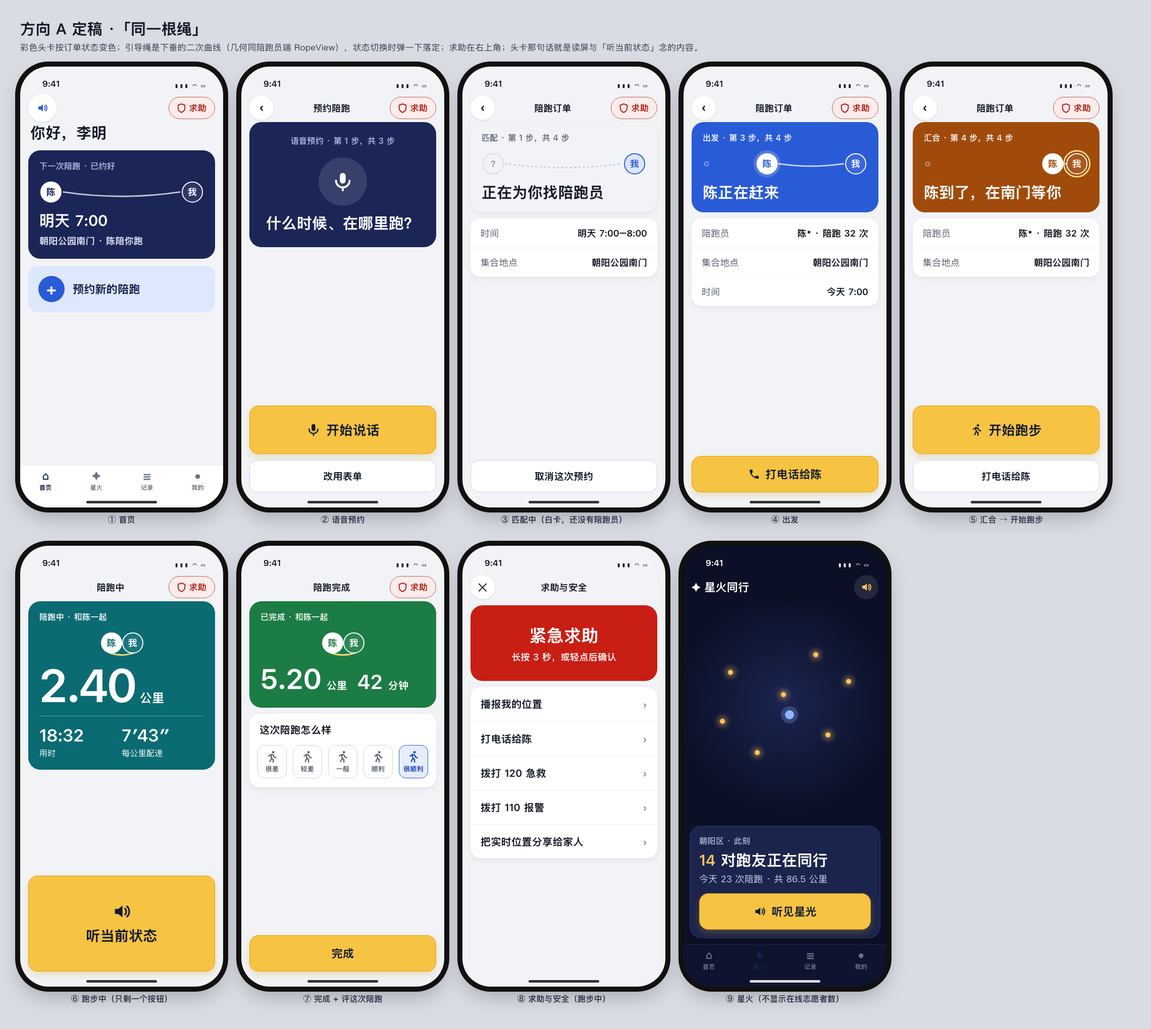
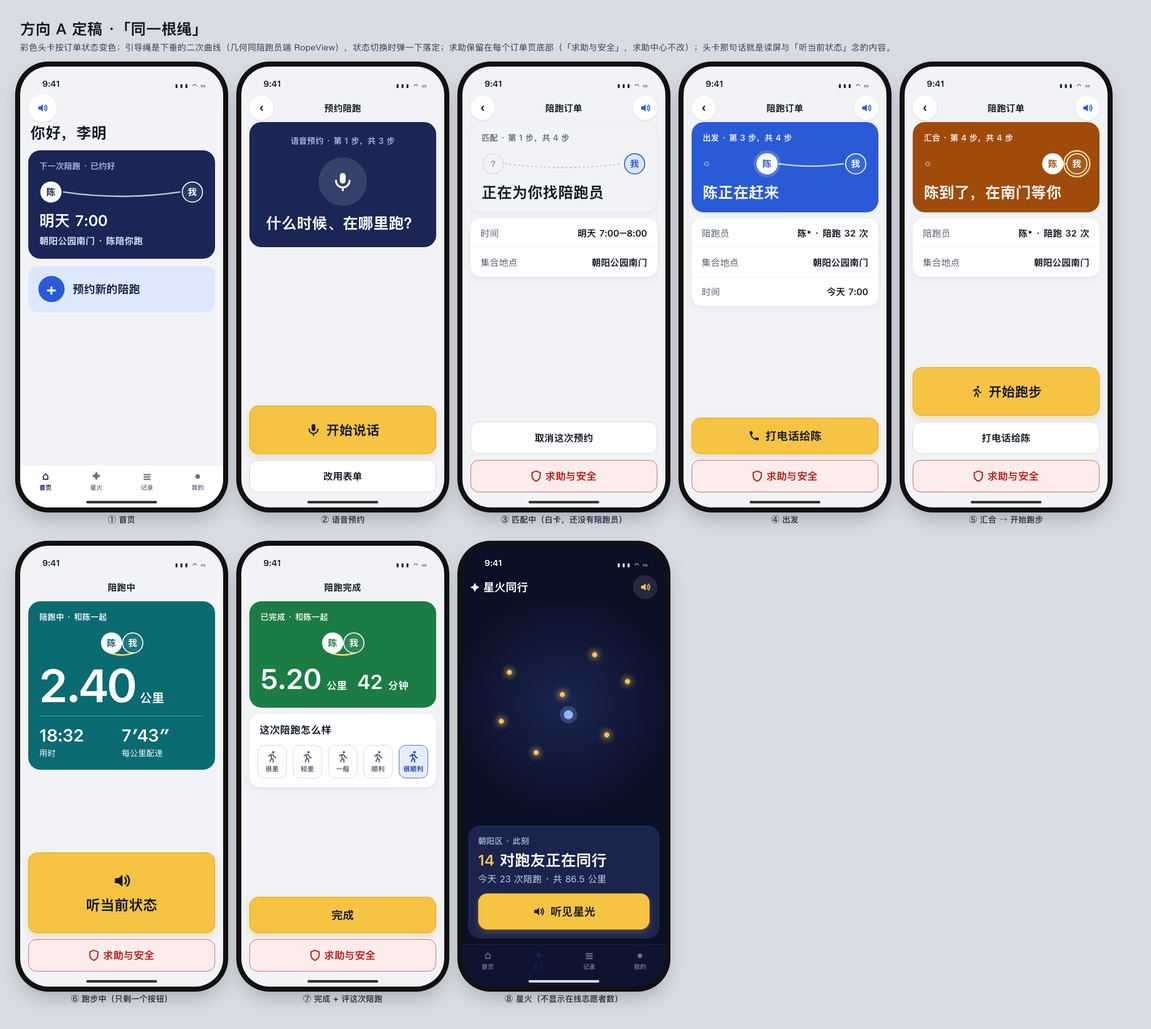
docs: 定稿求助回到订单页底部，求助中心不在范围（负责人 10-07）

diff --git a/docs/ui/mockups/blind-redesign-20261007/final/A-final.html b/docs/ui/mockups/blind-redesign-20261007/final/A-final.html
@@ -21,37 +21,35 @@
 .xcard{margin:0 12px 12px;padding:18px 18px 16px;border-radius:24px;background:rgba(28,38,80,.92);border:1px solid rgba(255,255,255,.09)}
 </style></head><body>
 <h1 class="dir">方向 A 定稿 ·「同一根绳」</h1>
-<p class="dirsub">彩色头卡按订单状态变色；引导绳是下垂的二次曲线（几何同陪跑员端 RopeView），状态切换时弹一下落定；求助在右上角；头卡那句话就是读屏与「听当前状态」念的内容。</p>
-<div class="row" style="flex-wrap:wrap;row-gap:40px"><div><div class="phone"><div class="sb"><span>9:41</span><span class="ic">▮▮▮ ◠ ▭</span></div><div class="nav"><div class="circ" style="width:56px;height:56px;border-radius:28px"><svg width="24" height="24" viewBox="0 0 24 24"><path d="M4 9v6h4l5 4V5L8 9H4z" fill="#2A5BD7"/><path d="M16 8.5a5 5 0 010 7M18.5 6a8.5 8.5 0 010 12" stroke="#2A5BD7" stroke-width="2" fill="none" stroke-linecap="round"/></svg></div><div></div><div class="pill-help"><svg width="17" height="19" viewBox="0 0 20 22"><path d="M10 1l8 3v6c0 5-3.5 9-8 11-4.5-2-8-6-8-11V4l8-3z" fill="none" stroke="#B42318" stroke-width="2.4"/></svg>求助</div></div>
+<p class="dirsub">彩色头卡按订单状态变色；引导绳是下垂的二次曲线（几何同陪跑员端 RopeView），状态切换时弹一下落定；求助保留在每个订单页底部（「求助与安全」，求助中心不改）；头卡那句话就是读屏与「听当前状态」念的内容。</p>
+<div class="row" style="flex-wrap:wrap;row-gap:40px"><div><div class="phone"><div class="sb"><span>9:41</span><span class="ic">▮▮▮ ◠ ▭</span></div><div class="nav"><div class="circ" style="width:56px;height:56px;border-radius:28px"><svg width="24" height="24" viewBox="0 0 24 24"><path d="M4 9v6h4l5 4V5L8 9H4z" fill="#2A5BD7"/><path d="M16 8.5a5 5 0 010 7M18.5 6a8.5 8.5 0 010 12" stroke="#2A5BD7" stroke-width="2" fill="none" stroke-linecap="round"/></svg></div><div></div></div>
 <div class="hello">你好，李明</div>
 <div class="hero" style="background:#1B2657"><div class="eyebrow"><span style="color:#B8C3E6">下一次陪跑 · 已约好</span></div><svg viewBox="0 0 342 56" width="100%" style="display:block;margin:14px 0 12px;overflow:visible"><path d="M50 28 Q171.0 46 292 28" stroke="rgba(255,255,255,.75)" stroke-width="3" fill="none" stroke-linecap="round" /><circle cx="24" cy="28" r="22" fill="#fff"/><text x="24" y="35" text-anchor="middle" font-size="19" font-weight="800" fill="#1B2657">陈</text><circle cx="318" cy="28" r="21" fill="rgba(255,255,255,.08)" stroke="#fff" stroke-width="2"/><text x="318" y="35" text-anchor="middle" font-size="19" font-weight="800" fill="#fff">我</text></svg><div class="say">明天 7:00<br><span class="sub">朝阳公园南门 · 陈陪你跑</span></div></div>
 <div class="book"><div class="plus">+</div>预约新的陪跑</div>
-<div style="flex:1"></div><div class="tabs"><div class="on"><i>⌂</i>首页</div><div class=""><i>✦</i>星火</div><div class=""><i>☰</i>记录</div><div class=""><i>●</i>我的</div></div><div class="hi"></div></div><div class="cap">① 首页</div></div><div><div class="phone"><div class="sb"><span>9:41</span><span class="ic">▮▮▮ ◠ ▭</span></div><div class="nav"><div class="circ" style="font-size:30px;font-weight:600;padding-bottom:4px">‹</div><div class="t">预约陪跑</div><div class="pill-help"><svg width="17" height="19" viewBox="0 0 20 22"><path d="M10 1l8 3v6c0 5-3.5 9-8 11-4.5-2-8-6-8-11V4l8-3z" fill="none" stroke="#B42318" stroke-width="2.4"/></svg>求助</div></div>
+<div style="flex:1"></div><div class="tabs"><div class="on"><i>⌂</i>首页</div><div class=""><i>✦</i>星火</div><div class=""><i>☰</i>记录</div><div class=""><i>●</i>我的</div></div><div class="hi"></div></div><div class="cap">① 首页</div></div><div><div class="phone"><div class="sb"><span>9:41</span><span class="ic">▮▮▮ ◠ ▭</span></div><div class="nav"><div class="circ" style="font-size:30px;font-weight:600;padding-bottom:4px">‹</div><div class="t">预约陪跑</div><div style="width:48px"></div></div>
 <div class="hero" style="background:#1B2657;text-align:center;padding:26px 22px 30px"><div class="eyebrow" style="color:#B8C3E6">语音预约 · 第 1 步，共 3 步</div>
 <div style="width:96px;height:96px;border-radius:48px;background:rgba(255,255,255,.12);margin:22px auto 16px;display:flex;align-items:center;justify-content:center;color:#fff"><svg width="46" height="46" viewBox="0 0 24 24"><rect x="9" y="3" width="6" height="11" rx="3" fill="currentColor"/><path d="M5 11a7 7 0 0014 0M12 18v3" stroke="currentColor" stroke-width="2" fill="none" stroke-linecap="round"/></svg></div>
 <div class="say" style="font-size:30px">什么时候、在哪里跑？</div></div>
 
-<div class="bottom"><div class="cta" style="height:96px;font-size:26px"><svg width="30" height="30" viewBox="0 0 24 24"><rect x="9" y="3" width="6" height="11" rx="3" fill="currentColor"/><path d="M5 11a7 7 0 0014 0M12 18v3" stroke="currentColor" stroke-width="2" fill="none" stroke-linecap="round"/></svg>开始说话</div><div class="ghost">改用表单</div></div><div class="hi"></div></div><div class="cap">② 语音预约</div></div><div><div class="phone"><div class="sb"><span>9:41</span><span class="ic">▮▮▮ ◠ ▭</span></div><div class="nav"><div class="circ" style="font-size:30px;font-weight:600;padding-bottom:4px">‹</div><div class="t">陪跑订单</div><div class="pill-help"><svg width="17" height="19" viewBox="0 0 20 22"><path d="M10 1l8 3v6c0 5-3.5 9-8 11-4.5-2-8-6-8-11V4l8-3z" fill="none" stroke="#B42318" stroke-width="2.4"/></svg>求助</div></div>
+<div class="bottom"><div class="cta" style="height:96px;font-size:26px"><svg width="30" height="30" viewBox="0 0 24 24"><rect x="9" y="3" width="6" height="11" rx="3" fill="currentColor"/><path d="M5 11a7 7 0 0014 0M12 18v3" stroke="currentColor" stroke-width="2" fill="none" stroke-linecap="round"/></svg>开始说话</div><div class="ghost">改用表单</div></div><div class="hi"></div></div><div class="cap">② 语音预约</div></div><div><div class="phone"><div class="sb"><span>9:41</span><span class="ic">▮▮▮ ◠ ▭</span></div><div class="nav"><div class="circ" style="font-size:30px;font-weight:600;padding-bottom:4px">‹</div><div class="t">陪跑订单</div><div class="circ"><svg width="24" height="24" viewBox="0 0 24 24"><path d="M4 9v6h4l5 4V5L8 9H4z" fill="#2A5BD7"/><path d="M16 8.5a5 5 0 010 7M18.5 6a8.5 8.5 0 010 12" stroke="#2A5BD7" stroke-width="2" fill="none" stroke-linecap="round"/></svg></div></div>
 <div class="hero" style="box-shadow:0 1px 2px rgba(21,26,38,.06),0 4px 14px rgba(21,26,38,.05)" style="background:#FFFFFF"><div class="eyebrow"><span style="color:#5B6272">匹配 · 第 1 步，共 4 步</span></div><svg viewBox="0 0 342 56" width="100%" style="display:block;margin:14px 0 12px;overflow:visible"><path d="M50 28 Q171.0 44 292 28" stroke="#C3C9D5" stroke-width="2.5" fill="none" stroke-linecap="round" stroke-dasharray="2 7"/><circle cx="24" cy="28" r="21" fill="none" stroke="#C3C9D5" stroke-width="2" stroke-dasharray="3 3"/><text x="24" y="35" text-anchor="middle" font-size="18" font-weight="800" fill="#8A91A2">?</text><circle cx="318" cy="28" r="21" fill="#DCE6FB" stroke="#2A5BD7" stroke-width="2"/><text x="318" y="35" text-anchor="middle" font-size="19" font-weight="800" fill="#2A5BD7">我</text></svg><div class="say"><span style="color:#151A26">正在为你找陪跑员</span></div></div>
 <div class="card"><div class="kv"><span>时间</span><span>明天 7:00–8:00</span></div><div class="kv"><span>集合地点</span><span>朝阳公园南门</span></div></div>
-<div class="bottom"><div class="ghost">取消这次预约</div></div><div class="hi"></div></div><div class="cap">③ 匹配中（白卡，还没有陪跑员）</div></div><div><div class="phone"><div class="sb"><span>9:41</span><span class="ic">▮▮▮ ◠ ▭</span></div><div class="nav"><div class="circ" style="font-size:30px;font-weight:600;padding-bottom:4px">‹</div><div class="t">陪跑订单</div><div class="pill-help"><svg width="17" height="19" viewBox="0 0 20 22"><path d="M10 1l8 3v6c0 5-3.5 9-8 11-4.5-2-8-6-8-11V4l8-3z" fill="none" stroke="#B42318" stroke-width="2.4"/></svg>求助</div></div>
+<div class="bottom"><div class="ghost">取消这次预约</div><div class="help"><svg width="20" height="22" viewBox="0 0 20 22"><path d="M10 1l8 3v6c0 5-3.5 9-8 11-4.5-2-8-6-8-11V4l8-3z" fill="none" stroke="#B42318" stroke-width="2.4"/></svg>求助与安全</div></div><div class="hi"></div></div><div class="cap">③ 匹配中（白卡，还没有陪跑员）</div></div><div><div class="phone"><div class="sb"><span>9:41</span><span class="ic">▮▮▮ ◠ ▭</span></div><div class="nav"><div class="circ" style="font-size:30px;font-weight:600;padding-bottom:4px">‹</div><div class="t">陪跑订单</div><div class="circ"><svg width="24" height="24" viewBox="0 0 24 24"><path d="M4 9v6h4l5 4V5L8 9H4z" fill="#2A5BD7"/><path d="M16 8.5a5 5 0 010 7M18.5 6a8.5 8.5 0 010 12" stroke="#2A5BD7" stroke-width="2" fill="none" stroke-linecap="round"/></svg></div></div>
 <div class="hero" style="background:#2A5BD7"><div class="eyebrow">出发 · 第 3 步，共 4 步</div><svg viewBox="0 0 342 56" width="100%" style="display:block;margin:14px 0 12px;overflow:visible"><circle cx="8" cy="28" r="4" fill="none" stroke="rgba(255,255,255,.5)" stroke-width="2"/><path d="M157.8 28 Q224.9 37.981818181818184 292 28" stroke="rgba(255,255,255,.75)" stroke-width="3" fill="none" stroke-linecap="round" /><circle cx="133.8" cy="28" r="28" fill="rgba(255,255,255,.18)"/><circle cx="133.8" cy="28" r="22" fill="#fff"/><text x="133.8" y="35" text-anchor="middle" font-size="19" font-weight="800" fill="#2A5BD7">陈</text><circle cx="318" cy="28" r="21" fill="rgba(255,255,255,.08)" stroke="#fff" stroke-width="2"/><text x="318" y="35" text-anchor="middle" font-size="19" font-weight="800" fill="#fff">我</text></svg><div class="say">陈正在赶来</div></div>
 <div class="card"><div class="kv"><span>陪跑员</span><span>陈* · 陪跑 32 次</span></div><div class="kv"><span>集合地点</span><span>朝阳公园南门</span></div><div class="kv"><span>时间</span><span>今天 7:00</span></div></div>
-<div class="bottom"><div class="cta" style="height:72px;"><svg width="24" height="24" viewBox="0 0 24 24"><path d="M6.6 10.8a15 15 0 006.6 6.6l2.2-2.2a1 1 0 011-.25 11.4 11.4 0 003.6.6 1 1 0 011 1V20a1 1 0 01-1 1A17 17 0 013 4a1 1 0 011-1h3.5a1 1 0 011 1c0 1.25.2 2.45.6 3.6a1 1 0 01-.25 1z" fill="currentColor"/></svg>打电话给陈</div></div><div class="hi"></div></div><div class="cap">④ 出发</div></div><div><div class="phone"><div class="sb"><span>9:41</span><span class="ic">▮▮▮ ◠ ▭</span></div><div class="nav"><div class="circ" style="font-size:30px;font-weight:600;padding-bottom:4px">‹</div><div class="t">陪跑订单</div><div class="pill-help"><svg width="17" height="19" viewBox="0 0 20 22"><path d="M10 1l8 3v6c0 5-3.5 9-8 11-4.5-2-8-6-8-11V4l8-3z" fill="none" stroke="#B42318" stroke-width="2.4"/></svg>求助</div></div>
+<div class="bottom"><div class="cta" style="height:72px;"><svg width="24" height="24" viewBox="0 0 24 24"><path d="M6.6 10.8a15 15 0 006.6 6.6l2.2-2.2a1 1 0 011-.25 11.4 11.4 0 003.6.6 1 1 0 011 1V20a1 1 0 01-1 1A17 17 0 013 4a1 1 0 011-1h3.5a1 1 0 011 1c0 1.25.2 2.45.6 3.6a1 1 0 01-.25 1z" fill="currentColor"/></svg>打电话给陈</div><div class="help"><svg width="20" height="22" viewBox="0 0 20 22"><path d="M10 1l8 3v6c0 5-3.5 9-8 11-4.5-2-8-6-8-11V4l8-3z" fill="none" stroke="#B42318" stroke-width="2.4"/></svg>求助与安全</div></div><div class="hi"></div></div><div class="cap">④ 出发</div></div><div><div class="phone"><div class="sb"><span>9:41</span><span class="ic">▮▮▮ ◠ ▭</span></div><div class="nav"><div class="circ" style="font-size:30px;font-weight:600;padding-bottom:4px">‹</div><div class="t">陪跑订单</div><div class="circ"><svg width="24" height="24" viewBox="0 0 24 24"><path d="M4 9v6h4l5 4V5L8 9H4z" fill="#2A5BD7"/><path d="M16 8.5a5 5 0 010 7M18.5 6a8.5 8.5 0 010 12" stroke="#2A5BD7" stroke-width="2" fill="none" stroke-linecap="round"/></svg></div></div>
 <div class="hero" style="background:#A04B0C"><div class="eyebrow">汇合 · 第 4 步，共 4 步</div><svg viewBox="0 0 342 56" width="100%" style="display:block;margin:14px 0 12px;overflow:visible"><circle cx="8" cy="28" r="4" fill="none" stroke="rgba(255,255,255,.5)" stroke-width="2"/><path d="M290 28 Q293.0 28 296 28" stroke="rgba(255,255,255,.75)" stroke-width="3" fill="none" stroke-linecap="round" /><circle cx="268" cy="28" r="22" fill="#fff"/><text x="268" y="35" text-anchor="middle" font-size="19" font-weight="800" fill="#A04B0C">陈</text><circle cx="318" cy="28" r="27" fill="none" stroke="#FFD978" stroke-width="3"/><circle cx="318" cy="28" r="21" fill="rgba(255,255,255,.08)" stroke="#fff" stroke-width="2"/><text x="318" y="35" text-anchor="middle" font-size="19" font-weight="800" fill="#fff">我</text></svg><div class="say">陈到了，在南门等你</div></div>
 <div class="card"><div class="kv"><span>陪跑员</span><span>陈* · 陪跑 32 次</span></div><div class="kv"><span>集合地点</span><span>朝阳公园南门</span></div></div>
-<div class="bottom"><div class="cta" style="height:96px;font-size:26px"><svg width="26" height="26" viewBox="0 0 24 24"><circle cx="14" cy="4" r="2.2" fill="currentColor"/><path d="M8 21l3-6 3 2v5M6 11l4-3 4 1 2 4 3 1M11 15l-1-5" stroke="currentColor" stroke-width="2.2" fill="none" stroke-linecap="round" stroke-linejoin="round"/></svg>开始跑步</div><div class="ghost">打电话给陈</div></div><div class="hi"></div></div><div class="cap">⑤ 汇合 → 开始跑步</div></div></div><div style="height:40px"></div>
-<div class="row" style="flex-wrap:wrap"><div><div class="phone"><div class="sb"><span>9:41</span><span class="ic">▮▮▮ ◠ ▭</span></div><div class="nav"><div style="width:48px"></div><div class="t">陪跑中</div><div class="pill-help"><svg width="17" height="19" viewBox="0 0 20 22"><path d="M10 1l8 3v6c0 5-3.5 9-8 11-4.5-2-8-6-8-11V4l8-3z" fill="none" stroke="#B42318" stroke-width="2.4"/></svg>求助</div></div>
+<div class="bottom"><div class="cta" style="height:96px;font-size:26px"><svg width="26" height="26" viewBox="0 0 24 24"><circle cx="14" cy="4" r="2.2" fill="currentColor"/><path d="M8 21l3-6 3 2v5M6 11l4-3 4 1 2 4 3 1M11 15l-1-5" stroke="currentColor" stroke-width="2.2" fill="none" stroke-linecap="round" stroke-linejoin="round"/></svg>开始跑步</div><div class="ghost">打电话给陈</div><div class="help"><svg width="20" height="22" viewBox="0 0 20 22"><path d="M10 1l8 3v6c0 5-3.5 9-8 11-4.5-2-8-6-8-11V4l8-3z" fill="none" stroke="#B42318" stroke-width="2.4"/></svg>求助与安全</div></div><div class="hi"></div></div><div class="cap">⑤ 汇合 → 开始跑步</div></div></div><div style="height:40px"></div>
+<div class="row" style="flex-wrap:wrap"><div><div class="phone"><div class="sb"><span>9:41</span><span class="ic">▮▮▮ ◠ ▭</span></div><div class="nav"><div style="width:48px"></div><div class="t">陪跑中</div><div style="width:48px"></div></div>
 <div class="hero" style="background:#0A6B72"><div class="eyebrow">陪跑中 · 和陈一起</div><svg viewBox="0 0 342 56" width="100%" style="display:block;margin:14px 0 12px;overflow:visible"><path d="M146 49 Q171.0 57 196 49" stroke="#FFD978" stroke-width="3" fill="none" stroke-linecap="round" /><circle cx="150" cy="28" r="22" fill="#fff"/><text x="150" y="35" text-anchor="middle" font-size="19" font-weight="800" fill="#0A6B72">陈</text><circle cx="194" cy="28" r="21" fill="rgba(255,255,255,.08)" stroke="#fff" stroke-width="2"/><text x="194" y="35" text-anchor="middle" font-size="19" font-weight="800" fill="#fff">我</text></svg>
 <div style="display:flex;align-items:baseline;gap:8px"><span style="font-size:92px;font-weight:800;letter-spacing:-2px;line-height:1">2.40</span><span style="font-size:24px;font-weight:800">公里</span></div>
 <div class="metric"><div><b>18:32</b><span>用时</span></div><div><b>7′43″</b><span>每公里配速</span></div></div></div>
-<div class="bottom"><div class="cta" style="height:190px;font-size:28px;flex-direction:column;gap:8px"><svg width="40" height="40" viewBox="0 0 24 24"><path d="M4 9v6h4l5 4V5L8 9H4z" fill="#111A2E"/><path d="M16 8.5a5 5 0 010 7M18.5 6a8.5 8.5 0 010 12" stroke="#111A2E" stroke-width="2" fill="none" stroke-linecap="round"/></svg>听当前状态</div></div><div class="hi"></div></div><div class="cap">⑥ 跑步中（只剩一个按钮）</div></div><div><div class="phone"><div class="sb"><span>9:41</span><span class="ic">▮▮▮ ◠ ▭</span></div><div class="nav"><div style="width:48px"></div><div class="t">陪跑完成</div><div class="pill-help"><svg width="17" height="19" viewBox="0 0 20 22"><path d="M10 1l8 3v6c0 5-3.5 9-8 11-4.5-2-8-6-8-11V4l8-3z" fill="none" stroke="#B42318" stroke-width="2.4"/></svg>求助</div></div>
+<div class="bottom"><div class="cta" style="height:160px;font-size:28px;flex-direction:column;gap:8px"><svg width="40" height="40" viewBox="0 0 24 24"><path d="M4 9v6h4l5 4V5L8 9H4z" fill="#111A2E"/><path d="M16 8.5a5 5 0 010 7M18.5 6a8.5 8.5 0 010 12" stroke="#111A2E" stroke-width="2" fill="none" stroke-linecap="round"/></svg>听当前状态</div><div class="help"><svg width="20" height="22" viewBox="0 0 20 22"><path d="M10 1l8 3v6c0 5-3.5 9-8 11-4.5-2-8-6-8-11V4l8-3z" fill="none" stroke="#B42318" stroke-width="2.4"/></svg>求助与安全</div></div><div class="hi"></div></div><div class="cap">⑥ 跑步中（只剩一个按钮）</div></div><div><div class="phone"><div class="sb"><span>9:41</span><span class="ic">▮▮▮ ◠ ▭</span></div><div class="nav"><div style="width:48px"></div><div class="t">陪跑完成</div><div style="width:48px"></div></div>
 <div class="hero" style="background:#1C7C45"><div class="eyebrow">已完成 · 和陈一起</div><svg viewBox="0 0 342 56" width="100%" style="display:block;margin:14px 0 12px;overflow:visible"><path d="M146 49 Q171.0 57 196 49" stroke="#FFD978" stroke-width="3" fill="none" stroke-linecap="round" /><circle cx="150" cy="28" r="22" fill="#fff"/><text x="150" y="35" text-anchor="middle" font-size="19" font-weight="800" fill="#1C7C45">陈</text><circle cx="194" cy="28" r="21" fill="rgba(255,255,255,.08)" stroke="#fff" stroke-width="2"/><text x="194" y="35" text-anchor="middle" font-size="19" font-weight="800" fill="#fff">我</text></svg><div class="say"><span style="font-size:56px">5.20</span> <span class="sub2">公里</span>&nbsp;&nbsp;<span style="font-size:40px">42</span> <span class="sub2">分钟</span></div></div>
 <div class="card"><div style="font-size:20px;font-weight:800;padding:18px 20px 12px">这次陪跑怎么样</div><div class="rate"><div class=""><svg width="26" height="26" viewBox="0 0 24 24"><circle cx="14" cy="4" r="2.2" fill="currentColor"/><path d="M8 21l3-6 3 2v5M6 11l4-3 4 1 2 4 3 1M11 15l-1-5" stroke="currentColor" stroke-width="2.2" fill="none" stroke-linecap="round" stroke-linejoin="round"/></svg><span>很差</span></div><div class=""><svg width="26" height="26" viewBox="0 0 24 24"><circle cx="14" cy="4" r="2.2" fill="currentColor"/><path d="M8 21l3-6 3 2v5M6 11l4-3 4 1 2 4 3 1M11 15l-1-5" stroke="currentColor" stroke-width="2.2" fill="none" stroke-linecap="round" stroke-linejoin="round"/></svg><span>较差</span></div><div class=""><svg width="26" height="26" viewBox="0 0 24 24"><circle cx="14" cy="4" r="2.2" fill="currentColor"/><path d="M8 21l3-6 3 2v5M6 11l4-3 4 1 2 4 3 1M11 15l-1-5" stroke="currentColor" stroke-width="2.2" fill="none" stroke-linecap="round" stroke-linejoin="round"/></svg><span>一般</span></div><div class=""><svg width="26" height="26" viewBox="0 0 24 24"><circle cx="14" cy="4" r="2.2" fill="currentColor"/><path d="M8 21l3-6 3 2v5M6 11l4-3 4 1 2 4 3 1M11 15l-1-5" stroke="currentColor" stroke-width="2.2" fill="none" stroke-linecap="round" stroke-linejoin="round"/></svg><span>顺利</span></div><div class="sel"><svg width="26" height="26" viewBox="0 0 24 24"><circle cx="14" cy="4" r="2.2" fill="currentColor"/><path d="M8 21l3-6 3 2v5M6 11l4-3 4 1 2 4 3 1M11 15l-1-5" stroke="currentColor" stroke-width="2.2" fill="none" stroke-linecap="round" stroke-linejoin="round"/></svg><span>很顺利</span></div></div></div>
-<div class="bottom"><div class="cta" style="height:72px;">完成</div></div><div class="hi"></div></div><div class="cap">⑦ 完成 + 评这次陪跑</div></div><div><div class="phone"><div class="sb"><span>9:41</span><span class="ic">▮▮▮ ◠ ▭</span></div><div class="nav"><div class="circ" style="font-size:24px">✕</div><div class="t">求助与安全</div><div style="width:48px"></div></div>
-<div class="sos">紧急求助<div class="sos2">长按 3 秒，或轻点后确认</div></div>
-<div class="card"><div class="hrow">播报我的位置<span>›</span></div><div class="hrow">打电话给陈<span>›</span></div><div class="hrow">拨打 120 急救<span>›</span></div><div class="hrow">拨打 110 报警<span>›</span></div><div class="hrow">把实时位置分享给家人<span>›</span></div></div><div class="hi"></div></div><div class="cap">⑧ 求助与安全（跑步中）</div></div><div><div class="phone night"><div class="sb"><span>9:41</span><span class="ic">▮▮▮ ◠ ▭</span></div><div class="nav"><div class="t" style="color:#fff;font-size:22px">✦ 星火同行</div><div></div><div class="circ" style="background:rgba(255,255,255,.1);color:#fff"><svg width="24" height="24" viewBox="0 0 24 24"><path d="M4 9v6h4l5 4V5L8 9H4z" fill="#FFC45C"/><path d="M16 8.5a5 5 0 010 7M18.5 6a8.5 8.5 0 010 12" stroke="#FFC45C" stroke-width="2" fill="none" stroke-linecap="round"/></svg></div></div>
+<div class="bottom"><div class="cta" style="height:72px;">完成</div><div class="help"><svg width="20" height="22" viewBox="0 0 20 22"><path d="M10 1l8 3v6c0 5-3.5 9-8 11-4.5-2-8-6-8-11V4l8-3z" fill="none" stroke="#B42318" stroke-width="2.4"/></svg>求助与安全</div></div><div class="hi"></div></div><div class="cap">⑦ 完成 + 评这次陪跑</div></div><div><div class="phone night"><div class="sb"><span>9:41</span><span class="ic">▮▮▮ ◠ ▭</span></div><div class="nav"><div class="t" style="color:#fff;font-size:22px">✦ 星火同行</div><div></div><div class="circ" style="background:rgba(255,255,255,.1);color:#fff"><svg width="24" height="24" viewBox="0 0 24 24"><path d="M4 9v6h4l5 4V5L8 9H4z" fill="#FFC45C"/><path d="M16 8.5a5 5 0 010 7M18.5 6a8.5 8.5 0 010 12" stroke="#FFC45C" stroke-width="2" fill="none" stroke-linecap="round"/></svg></div></div>
 <div class="map"><div class="me"></div><div class="star" style="left:22%;top:30%"></div><div class="star" style="left:64%;top:22%"></div><div class="star" style="left:70%;top:58%"></div><div class="star" style="left:35%;top:66%"></div><div class="star" style="left:48%;top:40%"></div><div class="star" style="left:80%;top:34%"></div><div class="star" style="left:18%;top:52%"></div></div>
 <div class="xcard"><div style="font-size:16px;font-weight:700;color:#9BA7C9">朝阳区 · 此刻</div><div style="font-size:30px;font-weight:800;color:#fff;margin:6px 0 4px"><span style="color:#FFC45C">14</span> 对跑友正在同行</div><div style="font-size:18px;color:#C9D2EE">今天 23 次陪跑 · 共 86.5 公里</div>
 <div class="cta" style="margin-top:16px"><svg width="26" height="26" viewBox="0 0 24 24"><path d="M4 9v6h4l5 4V5L8 9H4z" fill="#111A2E"/><path d="M16 8.5a5 5 0 010 7M18.5 6a8.5 8.5 0 010 12" stroke="#111A2E" stroke-width="2" fill="none" stroke-linecap="round"/></svg>听见星光</div></div>
-<div class="tabs" style="background:#0E1430;border-top-color:#1E2647"><div class=""><i>⌂</i>首页</div><div class="on"><i>✦</i>星火</div><div class=""><i>☰</i>记录</div><div class=""><i>●</i>我的</div></div><div class="hi light"></div></div><div class="cap">⑨ 星火（不显示在线志愿者数）</div></div></div></body></html>
+<div class="tabs" style="background:#0E1430;border-top-color:#1E2647"><div class=""><i>⌂</i>首页</div><div class="on"><i>✦</i>星火</div><div class=""><i>☰</i>记录</div><div class=""><i>●</i>我的</div></div><div class="hi light"></div></div><div class="cap">⑧ 星火（不显示在线志愿者数）</div></div></div></body></html>

diff --git a/docs/ui/mockups/INDEX.md b/docs/ui/mockups/INDEX.md
@@ -30,7 +30,7 @@ Claude Design 官方自认「没有版本历史」（[support.claude.com 原文]
 | 锁屏实时活动 | `running-state/screens/D-锁屏实时活动.png`；`volunteer-order-page-v2/04-live-activity.md` | Current | v2 的出发/汇合卡在 v1 之外新增 | `DECISIONS-v2.md` V3 | `RunLiveActivityController.swift` `blindRunWidget/RunLiveActivityWidget.swift` `blindRunWidget/Shared/RunLiveActivityShared.swift` | 已落地：#146（跑者播报按钮 + 陪跑员只读卡）。**未落地**：出发/汇合卡（FE-2，PR #231 未合）；照包排版 268/242pt 超锁屏卡 160pt 上限（#231 单测 `sizeThatFits` 量得）；推送 token 拿不到（免费团队，issue #201），只能本地更新 |
 | 跑后运动记录（两端） | `run-record/` | Current | — | **`DECISIONS.md` ＞ `HANDOFF.md`**。有意偏离 HANDOFF 的几处：坐标沿用 GCJ-02、高德不是 MapKit、服务时长从开始服务算、不显示「待确认」、两台手机各自计步 | `RunRecordHistoryView.swift` `RunRecordPresentation.swift` `RunRecordAudio.swift` `RunRecordService.swift` `VolunteerRunRecordView.swift` `RunnerRunRecordView.swift` | 分 8 阶段：阶段 2–6 已合（#189 #191 #194 #197 #203）；阶段 7 草稿 #249。各阶段真机截图（27MB）**未入库**，见文末 |
 | 志愿者「我」首屏 | `volunteer-profile-first-screen-20260914/`（原有） | Current | — | 该目录 `README.md`（含每个字段的真实来源表） | `VolunteerProfileFirstScreen.swift` `VolunteerProfileFirstScreenView.swift` | 已落地：#136。**偏差**：主指标 2026-10-03 改为陪伴时长（试用反馈，替代 #269 的累计公里；不足 1 小时回落为次数、次数退到下一行），累计公里移到三列统计第一格，0 公里 / 0 位搭档显示 `--`；包内 README/IMPLEMENTATION-PROMPT 里「累计里程后端刻意没有」已作废（后端 #348 已补）。未逐屏对照 |
-| 盲人端重设计 7 屏（首页 / 预约 / 订单四步 / 跑步中 / 完成 / 求助中心 / 星火） | `blind-redesign-20261007/directions/`（A 同一根绳 / B 整块面 / C 一句话，各 4 屏 HTML + PNG） | 待确认 | 选定后将取代上面「盲人端 首页 + 单页订单流程」与「盲人端 跑步中」两行的相应屏 | 待项目负责人选方向。**与既有决定的冲突**：A、B 把求助放回首页（推翻 09-16）；A 头卡用彩色状态底、C 求助挪右上角（推翻 10-06 两条）；三者都删跑步中节奏按钮 | 未实现 | 方向稿为 HTML，无法验读屏顺序与 Dynamic Type |
+| 盲人端重设计（首页 / 语音预约 / 订单页 匹配·约好·出发·汇合 / 跑步中 / 完成 / 星火） | `blind-redesign-20261007/`：`directions/`（A/B/C 三个方向稿）、`final/A-final.html`（定稿 8 屏） | Current | 选定后取代上面「盲人端 首页 + 单页订单流程」中对应屏的视觉；**求助与安全中心不在范围** | 负责人 2026-10-07：选 A「同一根绳」；**推翻 10-06 一条**：订单页头卡改用彩色状态底；**保留** 10-06 求助在订单页底部、`SafetyHubView` 与「我的」页求助条不动；跑步中删节奏按钮；评价 5 档跑步小人（契约不动）；引导绳状态切换加弹性（共用 `RopeView`） | 实现中（#369 / PR #370） | 方向稿为 HTML，读屏顺序与 Dynamic Type 待真机验 |
 
 ## 冲突裁决记录
 
